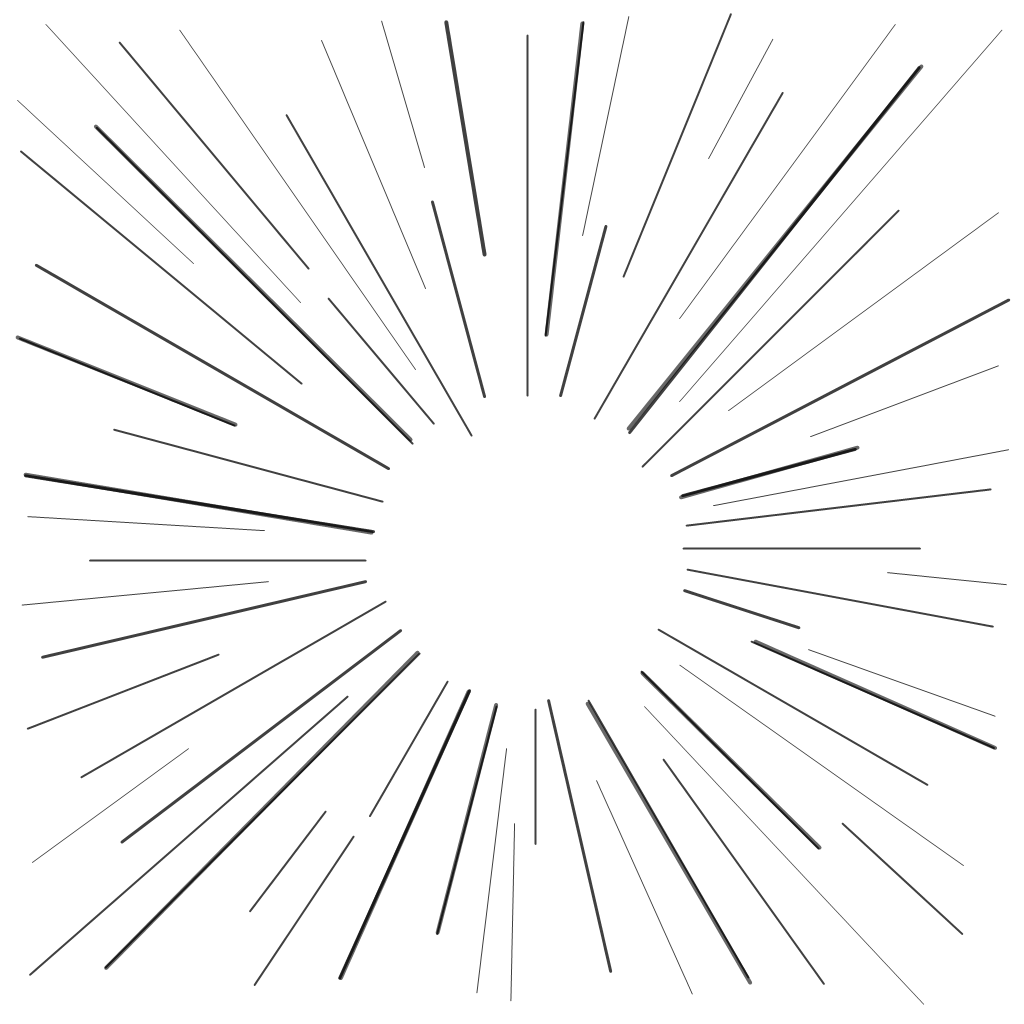
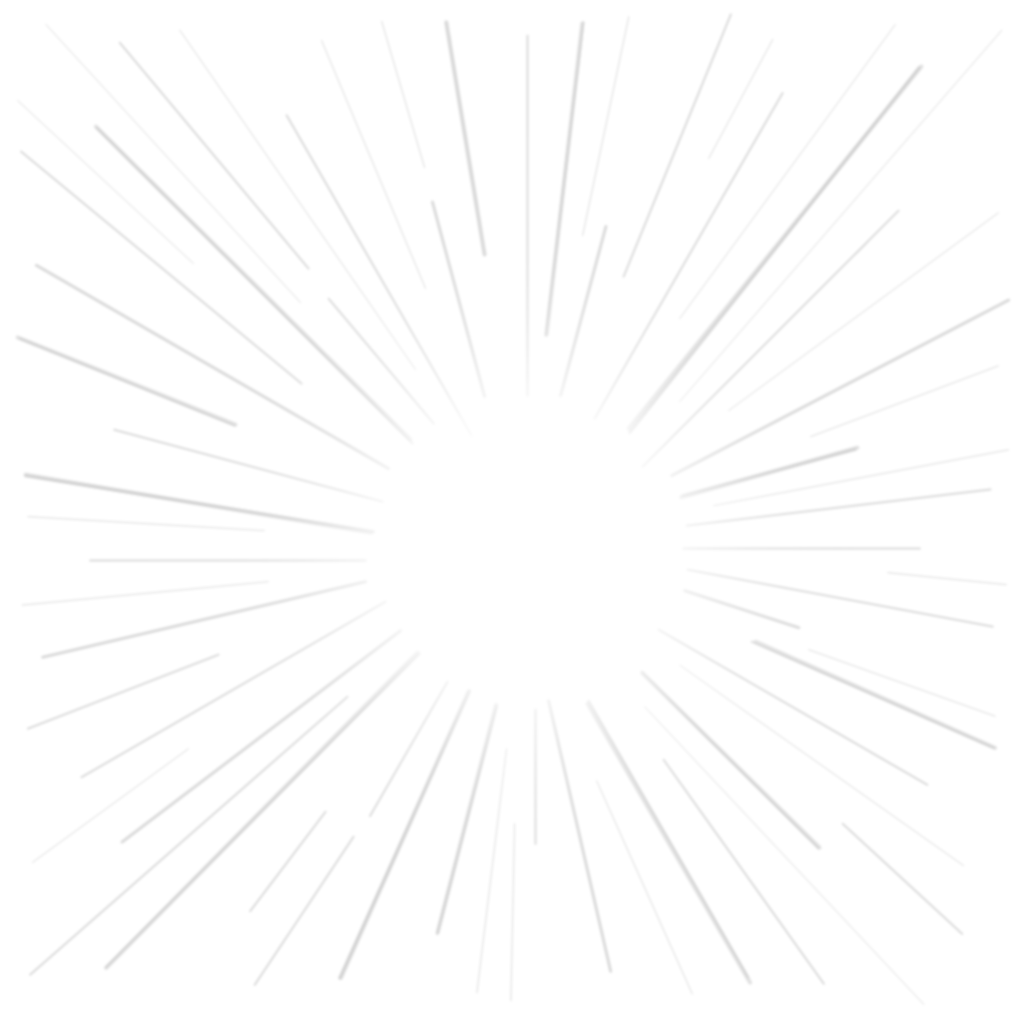
- Updated explosion

diff --git a/Game/src/GameObjects/Explosion.cpp b/Game/src/GameObjects/Explosion.cpp
@@ -149,32 +149,59 @@ void Explosion::Display()
 															1.0,
 															10000,
 															true,
-															10,
+															15,
 															0.0f,
 															0.0f,
-															0.15f,
-															0.8f);
+															0.0f,
+															0.5f);
 
-
-	ParticleEmitterManager::Instance()->CreateRadialSpray(40,
-															m_position,
+	ParticleEmitterManager::Instance()->CreateDirectedSpray(50,
+															Vector3(m_position.X, m_position.Y + 200, m_position.Z),
+															Vector3(0, 1, 0),
+															0.5f,
 															Vector3(3200, 1200, 0),
-															"Media\\smoke3.png",
+															"Media\\smoke4.png",
+															2.0f,
+															12.5f,
+															3.5f,
+															4.5f,
+															40.0f,
+															80.0f,
+															1.1f,
+															false,
+															0.3f,
+															0.6f,
+															10.0f,
+															true,
+															10.5f,
 															1.0f,
-															4.0f,
-															1.0f,
-															1.75f,
-															20,
-															40,
+															8.0f,
+															0.25f,
+															0.1f);
+
+	ParticleEmitterManager::Instance()->CreateDirectedSpray(20,
+															Vector3(m_position.X, m_position.Y - 100, m_position.Z),
+															Vector3(0, 1, 0),
+															0.2f,
+															Vector3(3200, 1200, 0),
+															"Media\\flame3.png",
+															10.0f,
+															20.5f,
+															0.3f,
+															0.8f,
+															20.0f,
+															40.0f,
 															0.5f,
 															false,
-															0.2f,
-															0.7f,
-															-1,
+															1.0f,
+															1.0f,
+															10.0f,
 															true,
-															20,
-															0.15f,
-															0.8f);
+															10.5f,
+															1.0f,
+															2.0f,
+															0.0f,
+															0.2f);
 
 	ParticleEmitterManager::Instance()->CreateDirectedSpray(1,
 															m_position,
@@ -194,29 +221,11 @@ void Explosion::Display()
 															1.0,
 															10000,
 															true,
-															70,
+															80,
 															0.0f,
 															0.0f,
-															0.15f,
-															0.8f);
-
-	/*ParticleEmitterManager::Instance()->CreateRadialSpray(20,
-															m_position,
-															Vector3(3200, 1200, 0),
-															"Media\\smoke4.png",
-															10,
-															20,
-															0.75f,
-															1.5f,
-															50,
-															300,
-															0.5f,
-															false,
-															0.4f,
-															1.0f,
-															-1,
-															true,
-															3);*/
+															0.2f,
+															0.5f);
 }
 
 void Explosion::Inflict()

diff --git a/Game/src/GameObjects/Projectile.cpp b/Game/src/GameObjects/Projectile.cpp
@@ -114,7 +114,7 @@ void Projectile::OnCollision(SolidMovingSprite* object)
 
 					GameObjectManager::Instance()->RemoveGameObject(objAsProj);
 
-					ParticleEmitterManager::Instance()->CreateRadialSpray(6,
+					ParticleEmitterManager::Instance()->CreateRadialSpray(1,
 																			m_position,
 																			Vector3(3000, 3000, 1),
 																			"Media\\spark.png",
@@ -132,7 +132,9 @@ void Projectile::OnCollision(SolidMovingSprite* object)
 																			true,
 																			5.0,
 																			0.1f,
-																			0.8f);
+																			0.8f,
+																			0.0f,
+																			0.0f);
 
 					AudioManager::Instance()->PlaySoundEffect("metalclink.wav");
 					return;
@@ -164,7 +166,7 @@ void Projectile::OnCollision(SolidMovingSprite* object)
 				objAsProj->m_timeBecameInactive = Timing::Instance()->GetTotalTimeSeconds();
 				objAsProj->SetVelocityXYZ(-m_velocity.X * 0.7, -5, 0);
 
-				ParticleEmitterManager::Instance()->CreateRadialSpray(6, 
+				ParticleEmitterManager::Instance()->CreateRadialSpray(1, 
 																	  m_position,
 																	  Vector3(3000,3000, 1),
 																	  "Media\\spark.png",
@@ -182,7 +184,9 @@ void Projectile::OnCollision(SolidMovingSprite* object)
 																	  true,
 																	  5.0,
 																	  0.1f,
-																	  0.8f);
+																	  0.8f,
+																	  0.0f,
+																	  0.0f);
 
 				AudioManager::Instance()->PlaySoundEffect("metalclink.wav");
 

diff --git a/Game/src/Particles/ParticleEmitterManager.cpp b/Game/src/Particles/ParticleEmitterManager.cpp
@@ -244,7 +244,9 @@ void ParticleEmitterManager::CreateRadialSpray(int numParticles,
 												 bool scalesByLiveTime,
 												 float scaleTo,
 												 float fadeInPercentTime,
-												 float fadeOutPercentTime)
+												 float fadeOutPercentTime,
+												 float spawnOffsetX,
+												 float spawnOffsetY)
 {
 	if (sNumParticlesInWorld > kMaxParticlesInWorld)
 	{
@@ -350,8 +352,8 @@ void ParticleEmitterManager::CreateRadialSpray(int numParticles,
 												loopTime,
 												scalesByLiveTime, 
 												scaleTo * gameScale,
-												0.0f,
-												0.0f);
+												spawnOffsetX,
+												spawnOffsetY);
 
 	spray->SetFadeInPercentTime(fadeInPercentTime);
 	spray->SetFadeOutPercentTime(fadeOutPercentTime);

diff --git a/Game/src/Game.h b/Game/src/Game.h
@@ -63,10 +63,8 @@ private:
 	EffectParticleSpray * m_effectParticleSpray;
 	EffectBloodParticleSpray * m_effectBloodParticleSpray;
 	EffectLightTextureBump * m_effectLightTextureBump;
-#if _DEBUG
 	EffectBasic * m_effectBasic;
 	LevelEditor * mlevelEditor;
-#endif
 	EffectSepia * m_effectSepia;
 	EffectMonochrome * m_effectMonochrome;
 	EffectMonochromeRed * m_effectMonochromeRed;

diff --git a/Game/src/Particles/ParticleEmitterManager.h b/Game/src/Particles/ParticleEmitterManager.h
@@ -62,7 +62,9 @@ public:
 						 bool scalesByLiveTime,
 						 float scaleTo,
 						 float fadeInPercentTime,
-						 float fadeOutPercentTime); 
+						 float fadeOutPercentTime,
+						 float spawnOffsetX,
+						 float spawnOffsetY); 
 
 
 	ParticleSpray * CreateDirectedSpray(int numParticles,

diff --git a/Game/src/GameObjects/NinjaSpawner.cpp b/Game/src/GameObjects/NinjaSpawner.cpp
@@ -57,7 +57,9 @@ void NinjaSpawner::SpawnNPC(const float posX, const float posY, bool playSoundEf
 														true, 
 														2.0,
 														0.15f,
-														0.8f);
+														0.8f,
+														10,
+														10);
 
 	if (playSoundEffect)
 	{

diff --git a/Game/src/LevelEditor.cpp b/Game/src/LevelEditor.cpp
@@ -8,8 +8,6 @@
 #include "SolidLineStrip.h"
 #include "DrawUtilities.h"
 
-#if _DEBUG
-
 LevelEditor::LevelEditor(void):
 	mSelectedObject(nullptr),
 	mTerrainEditing(false),
@@ -980,5 +978,3 @@ Vector2 LevelEditor::GetMouseWorldPos()
 
 	return worldPos;
 }
-
-#endif

diff --git a/Game/src/Game.cpp b/Game/src/Game.cpp
@@ -345,13 +345,11 @@ void Game::Cleanup()
 	m_screenAlignedPostProcTex1->Release();
 }
 
-#if _DEBUG
 void Game::SetLevelEditFilename(const char * file) 
 { 
 	GAME_ASSERT(mlevelEditor);
 	mlevelEditor->SetLevelFile(file);
 }
-#endif
 
 void Game::Create()
 {

diff --git a/Game/src/GameObjects/Orb.cpp b/Game/src/GameObjects/Orb.cpp
@@ -104,7 +104,9 @@ void Orb::OnCollideWithTarget()
 																  true, 
 																  0.1,
 																  0.15f,
-																  0.8f);
+																  0.8f,
+																  5,
+																  5);
 		}
 
 		// play sound effect
